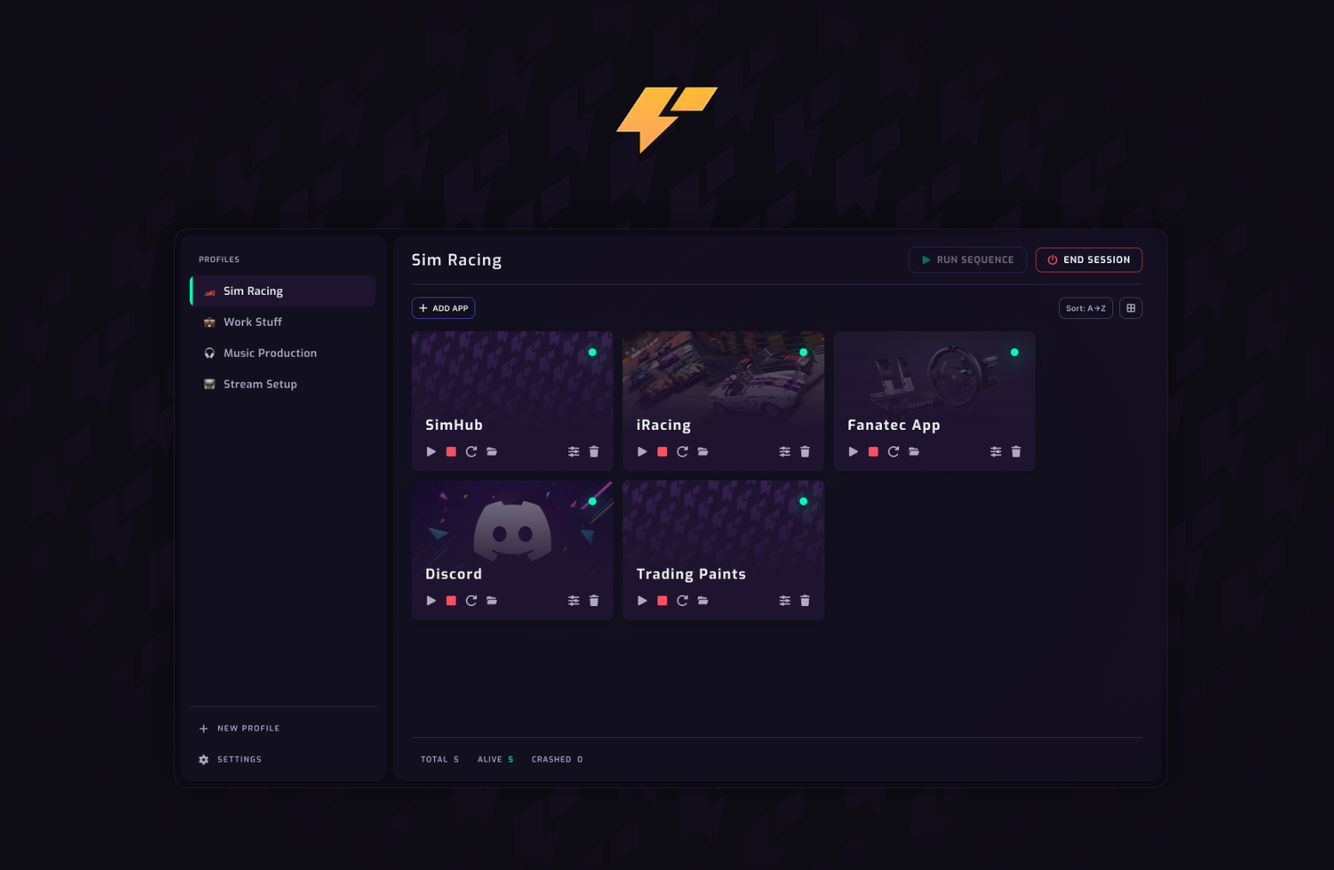
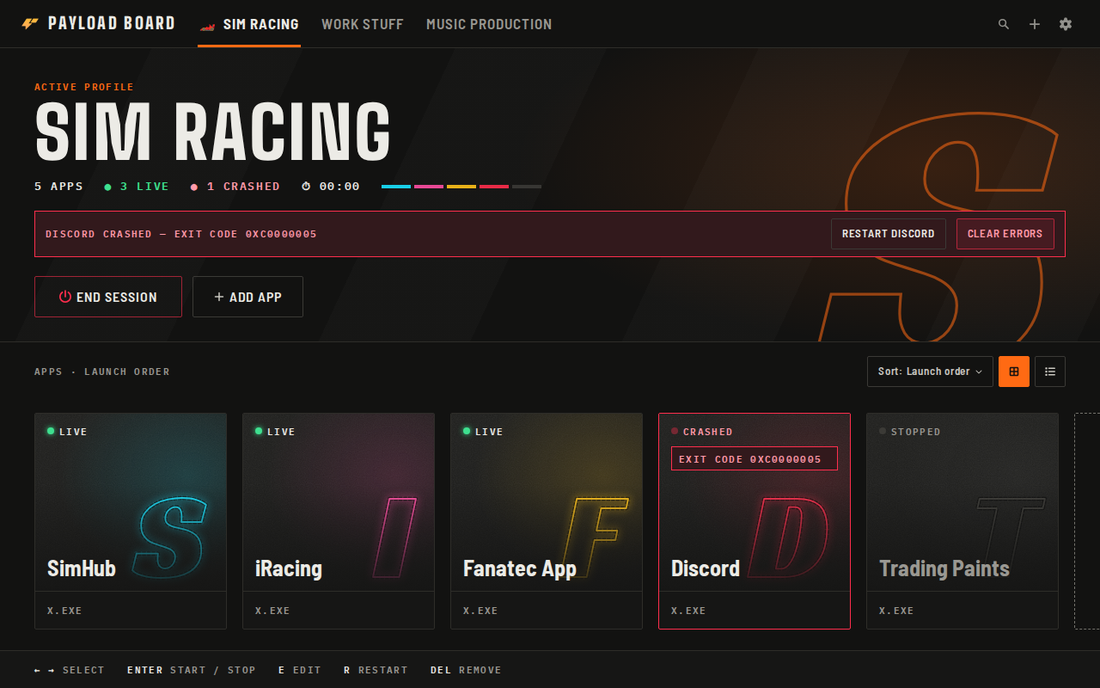
docs: README, CHANGELOG and docs for v0.6.0; move shipped plans to done/

diff --git a/README.md b/README.md
@@ -2,63 +2,56 @@
 
 ![Payload Board](docs/assets/screenshot.png)
 
+<sub>Also in [grey](docs/assets/screenshots/grey-1280x800-grid.png) and [light](docs/assets/screenshots/light-1280x800-grid.png) themes, with a [list view](docs/assets/screenshots/dark-1280x800-list.png) and [tabbed settings](docs/assets/screenshots/dark-1280x800-settings.png). Screenshots use sample data.</sub>
+
 A desktop app for managing sets of applications (profiles) — launch them in sequence, monitor their status in real time, and close everything with one click. Built for the "dark cockpit" aesthetic: functional data, no fluff.
 
 Inspired by the pain of managing a dozen simracing apps that all had to be started in the right order before a session and closed one by one afterwards. Payload Board automates that.
 
 ## What it does
 
-1. You create a named **profile** (e.g. `Racing`, `Work`, `Stream`).
-2. You add **apps** to the profile — each with a launch order and optional CLI arguments.
-3. You click **RUN SEQUENCE** → apps start one by one in your configured order.
+1. You create a named **profile** (e.g. `Racing`, `Work`, `Stream`) and pick an accent colour and optional cover image.
+2. You add **apps** to the profile — each with a launch order, delay and optional CLI arguments.
+3. You press **Run sequence** → apps start one by one in your configured order; the button shows progress and can cancel.
 4. The dashboard shows a live tile per app with its current status.
-5. You can stop / restart / force-kill individual apps from their tile.
-6. **END SESSION** gracefully closes everything in the profile (→ force-kill after 5 s timeout).
-7. Profiles persist across restarts. Multiple profiles, switch from the left sidebar.
+5. You can stop / restart / open the folder of individual apps from their tile.
+6. **End session** gracefully closes everything in the profile (→ force-kill after 5 s timeout).
+7. Profiles persist across restarts; switch between them in the tabs at the top.
+
+Everything is reachable from the keyboard: `Ctrl+K` opens a command palette, and global shortcuts work even while a game has focus.
 
 ## Features
 
 **Profiles & apps**
-- Named profiles with emoji icon and description
-- Multiple app entries per profile with launch order and CLI arguments
+- Named profiles with emoji, accent colour and cover image
+- Multiple app entries per profile with launch order, delay and CLI arguments
 - Per-app process priority: Low / Normal / High
 - Per-app "Launch minimised" toggle (Windows only)
-- Tile and list view — switch between grid of cards or compact rows
-- A→Z / Z→A sort
+- Poster view (carousel) and compact list view; A→Z / Z→A display sort
 - Confirm dialogs before removing apps or deleting profiles
 
 **Session management**
-- **RUN SEQUENCE** disabled while a session is active
-- Detect already-running processes — adopts existing process instead of double-launching
-- Clear all errors at once — button appears when any app has crashed
-- Per-process controls: start, stop, restart, open folder
+- Sequencer runs in the backend — keeps going with the window hidden; progress and cancel in the hero button
+- Detect already-running processes — adopts the existing process instead of double-launching
+- Crash notifications (when the window is not in front) and optional auto-restart per app with a retry limit
+- Hero shows live / crashed counts, launch-order strip and session timer
 
-**Status & monitoring**
-- Status LED per tile: live (cyan glow) / stopped / crashed (red pulse + error message)
-- Status bar: total / alive / crashed counts
+**Keyboard**
+- **Command palette** (`Ctrl+K`) — actions, apps and profiles in one searchable list
+- **Configurable shortcuts** in Settings → Shortcuts — in-window and global (OS-level); conflicts and refused keys are reported
+- Roving focus on tiles: arrows, `Enter` start/stop, `R` restart, `E` edit, `Del` remove; tooltips show the key
 
-**System tray**
-- Tray icon always present with Show / Quit menu; left-click to restore
-- **Start minimised to tray** — hide main window on launch (toggle in Settings)
-- **Minimise on close** — close button hides to tray instead of quitting (toggle in Settings)
-- **Launch on startup** — register as a Windows / Linux autostart entry (toggle in Settings)
+**Appearance**
+- Graphite + orange accent, per-app colour glow and first-letter backdrop; Dark / Grey / Light themes
+- SteamGridDB artwork for tiles (API key in Settings, with a link to where to get one) or any local image
+- Mini mode below 560 px width; WCAG 2.2 AA contrast, focus and target sizes
+- Languages: English, Polski, Deutsch, Español, Français
 
-**Artwork & appearance**
-- SteamGridDB integration — search and assign game artwork as tile backgrounds; API key in Settings
-- Local background image per app — pick any image file as a tile background
-- Auto-fetch tile art when adding an app by name (if SteamGridDB API key is set)
-- Theme selector: Purple / Grey (Settings → Appearance)
-
-**Sidebar**
-- Collapsible sidebar — chevron toggle in the Profiles header
-
-**App discovery**
-- Browse installed apps: Windows (registry), Linux (`.desktop` files)
-
-**Storage**
-- Persistent profiles (JSON, stored in platform app data dir)
-- Custom config directory — change or reset in Settings
-- Reset all data option in Settings
+**System**
+- Tray icon with Show / Quit; **Start minimised to tray**, **Minimise on close**, **Launch on startup** (Settings)
+- **Update check** — asks GitHub for a newer release at startup (can be turned off) and links to the download page
+- Browse installed apps: Windows (registry; Steam games resolved through Steam's app manifests), Linux (`.desktop` files)
+- Custom config directory and reset-all-data option in Settings → Data
 
 ## Installation
 
@@ -102,11 +95,11 @@ First Rust compile takes 5–10 minutes. Subsequent builds are fast.
 
 ## Usage
 
-1. **Create a profile** — click `+ NEW PROFILE` in the sidebar, enter a name and optionally an emoji and description.
-2. **Add apps** — select the profile, click `Add App`, browse to the executable or pick from the installed apps list. Set any CLI arguments and process priority if needed.
-3. **Configure order** — apps launch in the order they appear; sort A→Z or rearrange manually.
-4. **Run** — click `RUN SEQUENCE`. Watch the tiles turn live. The button is disabled while a session is active.
-5. **End session** — click `END SESSION`. All profile apps receive a graceful close signal; any that don't exit within 5 s are force-killed.
+1. **Create a profile** — click `+` in the top bar (or `Ctrl+N`), enter a name; optionally an emoji, accent colour and cover image.
+2. **Add apps** — select the profile, click `Add app`, browse to the executable or pick from the installed apps list. Set any CLI arguments and process priority if needed.
+3. **Configure order** — apps launch in the order they were added (the A→Z sort only changes how they are displayed).
+4. **Run** — click `Run sequence`. Watch the tiles turn live; click the button again (it shows the step) to cancel.
+5. **End session** — click `End session`. All profile apps receive a graceful close signal; any that don't exit within 5 s are force-killed.
 6. **Tray** — the app lives in the system tray. Close the window to minimise it (if "Minimise on close" is enabled), or use Quit from the tray menu to exit fully.
 
 ## FAQ
@@ -133,11 +126,12 @@ After launch, Payload Board scans the process list for 10 seconds looking for a 
 |-------|-----------|
 | Desktop shell | [Tauri 2](https://tauri.app) |
 | Backend | Rust stable |
-| Frontend | React 18 + TypeScript |
+| Frontend | React 19 + TypeScript |
 | Build | Vite |
 | Styling | Tailwind CSS v4 |
-| Styling tokens | CSS custom properties (`--color-*`); Purple / Grey themes via `[data-theme]` |
+| Styling tokens | CSS custom properties (`--color-*`) in `src/globals.css`; Dark / Grey / Light themes via `[data-theme]` |
 | Components | shadcn/ui (heavily customised) |
-| Fonts | Exo (headers/labels) + Inter (body/buttons) |
+| Fonts | Big Shoulders (headings), Barlow Semi Condensed (UI), IBM Plex Mono (labels), Racing Sans One (tile letter) |
 | Icons | FontAwesome 6 Free |
 | Persistence | `tauri-plugin-store` (JSON) |
+| Shortcuts / notifications | `tauri-plugin-global-shortcut`, `tauri-plugin-notification` |

diff --git a/docs/done/ui-big-picture-palette.md b/docs/done/ui-big-picture-palette.md
@@ -1,6 +1,6 @@
 # Big Picture layout + Command Palette (v6)
 
-**Status:** planned (decisions D1–D6 confirmed 2026-11-14; 4b overlay deferred), starts after v5 is QA'd in the real Tauri window. Execution plan for agents: [agent-workflow.md](agent-workflow.md). Stack on `feat/ui-restyle-v5` (or on `main` once v5 is merged).
+**Status:** shipped in v0.6.0 (decisions D1–D6 confirmed 2026-11-14; tested on Windows 2026-11-16). Deferred: 4b palette overlay over fullscreen games. Execution plan for agents: [agent-workflow.md](agent-workflow.md).
 **Builds on:** [ui-restyle-v5.md](ui-restyle-v5.md) (tokens, themes, tiles, controls).
 
 ## Goal
@@ -88,7 +88,7 @@ Concepts (static mockups, dark theme): ![all concepts](../assets/concepts/sheet.
 
 ### Phase 2 — Profile accent and cover
 - [x] 2a: use `color_accent` (already in type) as hero tint; picker in `ProfileEditor` (5 presets + default accent)
-- [ ] 2b: optional profile cover image (reuse SteamGridDB / local picker). **New optional field → Rust migration, ask first.** Fallback: big first letter
+- [x] 2b: optional profile cover image (reuse SteamGridDB / local picker). **New optional field → Rust migration, ask first.** Fallback: big first letter
 - Done: `lib/accent.ts` (presets, readable text colour, darkening in the light theme), colour picker in `ProfileEditor`, accent applied on `<html>` so tabs, hero, focus ring and buttons follow the active profile. **2b (cover image) is NOT done** — it adds a new optional profile field, so it waits for your OK.
 
 ### Phase 3 — Command Palette (in-window)
@@ -108,7 +108,7 @@ Concepts (static mockups, dark theme): ![all concepts](../assets/concepts/sheet.
 - [x] **Settings → Shortcuts** section: one row per action (label, current keys, scope badge, Change = press-to-record, Reset, Clear), master switch "Enable global shortcuts", inline error for conflicts/invalid, shows which are global vs window-only
 - [x] Global End session needs a second press within 2 s (D4); toast confirms every global action
 - [x] In-window shortcuts (`Ctrl+K`, `Ctrl+R`, `Ctrl+.`, `Ctrl+N`, …) read the same registry, so changing them in Settings takes effect immediately; guard against firing while a dialog is open
-- [ ] Risk to verify early (Windows): re-registering after a failed attempt; shortcut still firing after the window is minimised to tray
+- [x] Risk to verify early (Windows): re-registering after a failed attempt; shortcut still firing after the window is minimised to tray
 - Done on `feat/big-picture`:
   - Rust `shortcuts.rs` (`tauri-plugin-global-shortcut` 2.x): `get_shortcuts`, `set_shortcut` (typed errors `invalid | conflict | taken`, rolls back when the OS refuses), `reset_shortcut`, `set_global_shortcuts_enabled`, `suspend_global_shortcuts` (paused while recording a key), `set_active_profile` (so global run/end know the profile with the window hidden). Persisted in the settings store. Events: `shortcut_triggered`, `shortcut_feedback`. `start_sequence` and `stop_all_inner` extracted so the shortcut handler calls them directly.
   - Accelerators are `CommandOrControl+Alt+KeyR`-style (`KeyboardEvent.code` names). Defaults: palette anywhere `Ctrl+Shift+Space`, run `Ctrl+Alt+R`, end session `Ctrl+Alt+E` (second press within 2 s), window: palette `Ctrl+K`, add app `Ctrl+N`, new profile `Ctrl+Shift+N`, settings `Ctrl+,`. (`Ctrl+P` alias from D6 dropped: every shortcut is now a single configurable binding.)
@@ -144,13 +144,13 @@ Concepts (static mockups, dark theme): ![all concepts](../assets/concepts/sheet.
 
 ## Acceptance criteria
 
-- [ ] Full flow without a mouse: open palette → start an app → close → run/stop sequence
-- [ ] Works at 900×600 and 1200×800, three themes
-- [ ] Every shortcut can be changed, reset and disabled in Settings; invalid/conflicting keys show a clear message and never leave the app without a working palette shortcut
-- [ ] Global run/end work with the window hidden (tray) and while another app has focus
-- [ ] WCAG 2.2 AA as in v5 (contrast, 24 px targets, visible focus, status not by colour alone, reduced motion) + palette ARIA pattern
-- [ ] No regression in existing process control and sequence behaviour (manual test list below)
-- [ ] `npm run build` clean; verified in the real Tauri window, not only in the browser mock
+- [x] Full flow without a mouse: open palette → start an app → close → run/stop sequence
+- [x] Works at 900×600 and 1200×800, three themes
+- [x] Every shortcut can be changed, reset and disabled in Settings; invalid/conflicting keys show a clear message and never leave the app without a working palette shortcut
+- [x] Global run/end work with the window hidden (tray) and while another app has focus
+- [x] WCAG 2.2 AA as in v5 (contrast, 24 px targets, visible focus, status not by colour alone, reduced motion) + palette ARIA pattern
+- [x] No regression in existing process control and sequence behaviour (manual test list below)
+- [x] `npm run build` clean; verified in the real Tauri window, not only in the browser mock
 
 **Manual test list:** global run / end with window hidden · change a shortcut and use it · conflict with an existing shortcut · run sequence with delays · cancel mid-sequence · stop one app · crash an app (kill process) · END SESSION with confirm · add/edit/remove app · profile switch · settings dialogs · tray minimise/restore.
 

diff --git a/docs/index.md b/docs/index.md
@@ -12,25 +12,25 @@ docs/
 ├── planned/                    ← ready to build, not yet started
 │   ├── app-launch-config.md    ← CLI args field + app-specific presets
 │   ├── monitoring.md           ← CPU/RAM metrics, sparklines, footer totals
-│   ├── sequencer.md            (remaining: wait strategies, progress bar, cancel)
-│   ├── platform-adapters.md    (remaining: graceful shutdown, macOS/Linux installed apps)
-│   ├── hotkeys.md              ← in-app + system-wide keyboard shortcuts
+│   ├── sequencer.md            (remaining: wait strategies)
+│   ├── platform-adapters.md    (remaining: graceful shutdown; macOS dropped)
 │   ├── tray-autostart.md       ← system tray icon + launch at startup
 │   ├── export-import.md        ← export/import profiles as JSON
 │   ├── session-logs.md         ← per-session launch/crash log
 │   ├── model-routing.md        ← which model does what, token rules, security finding
 │   └── ui-redesign.md          ← Figma-driven redesign (onboarding + logo remain)
-├── in-progress/                ← currently being worked on
-│   ├── ui-restyle-v5.md        ← ★ new look on the current layout (branch feat/ui-restyle-v5)
-│   ├── ui-big-picture-palette.md ← next: Big Picture + Command Palette + configurable global shortcuts (after v5 QA)
-│   └── agent-workflow.md       ← agents/sub-agents, model split, contracts, gates for that work
+├── in-progress/                ← currently being worked on (empty)
 └── done/                       ← shipped
     ├── profiles.md             ← profile CRUD, emoji, edit (v0.4.0)
     ├── process-control.md      ← start/stop/restart/kill, status LED (v0.3.1–v0.4.0)
     ├── sequencer.md            ← basic run sequence, delays (v0.3.1)
     ├── platform-adapters.md    ← PlatformAdapter trait, Windows installed apps (v0.4.0)
     ├── settings.md             ← Settings panel, storage, SteamGridDB key (v0.3.0–v0.4.0)
-    └── background-art.md       ← SteamGridDB + local image backgrounds (v0.4.0)
+    ├── background-art.md       ← SteamGridDB + local image backgrounds (v0.4.0)
+    ├── ui-restyle-v5.md        ← graphite + orange restyle, tokens, themes (v0.6.0)
+    ├── ui-big-picture-palette.md ← Big Picture hero, command palette, shortcuts, crash notifications, mini mode, languages (v0.6.0)
+    ├── agent-workflow.md       ← agents, model split, contracts, gates used for v0.6.0
+    └── hotkeys.md              ← configurable window + global shortcuts (v0.6.0)
 ```
 
 Move a file from `planned/` → `in-progress/` when you start it, and to `done/` when it's shipped. Done files stay as a record of what was built and what remains.
@@ -42,13 +42,13 @@ Move a file from `planned/` → `in-progress/` when you start it, and to `done/`
 | 0 | Setup (Tauri, Tailwind, shadcn, FA, Cargo) | done |
 | 1 | MVP scaffold (sidebar, dashboard, profile CRUD, IPC) | done |
 | 2 | Process control (start/stop/restart/kill, status LED) | done |
-| 3 | Sequencer (ordered launch, delays, fire-and-forget) | done (partial — wait strategies, progress bar remain) |
+| 3 | Sequencer (ordered launch, delays, progress, cancel — runs in Rust) | done (wait strategies remain) |
 | 4 | Monitoring (sysinfo loop, sparklines, footer totals) | not started |
-| 5 | UX polish (full redesign via Figma, hotkeys, animations, onboarding) | not started |
-| 6 | Nice-to-have (tray, autostart, export/import, logs) | not started |
+| 5 | UX polish (restyle, Big Picture, palette, hotkeys, languages) | done in v0.6.0 (onboarding remains) |
+| 6 | Nice-to-have (tray, autostart, export/import, logs) | tray, autostart, update check done; export/import, logs not started |
 
 ## Current version
 
-**v0.4.0** — released 2026-05-09. See `CHANGELOG.md` for full notes.
+**v0.6.0** — released 2026-11-16 (new look, Big Picture layout, command palette, global shortcuts, Rust sequencer, crash notifications and auto-restart, five languages, update check; Windows + Linux). See `CHANGELOG.md` for full notes.
 
 Next up: see `backlog.md` for near-term items and `planned/` for feature specs.

diff --git a/docs/backlog.md b/docs/backlog.md
@@ -19,22 +19,24 @@ Lower-priority ideas and Phase 6 nice-to-haves. Promote to a feature file when r
 - [x] **Start minimised to tray** — tray icon always present; "Start minimised to tray" toggle in Settings hides the window on launch
 - [x] **Start apps minimised** — "Launch minimised" toggle per app in editor; Windows only (SW_SHOWMINIMIZED via CreateProcessW); hidden on Linux/macOS
 - [x] **Minimise on close** — "Minimise on close" toggle in Settings; closing the window hides it to the tray; quit via tray menu
-- [ ] **Settings tabs** — split the Settings modal into tabs (e.g. Appearance / Integrations / Storage / Advanced) as the panel grows
+- [x] **Settings tabs** — split the Settings modal into tabs (e.g. Appearance / Integrations / Storage / Advanced) as the panel grows
 - [x] **Autostart** — `tauri-plugin-autostart` (cross-platform); option per profile or global
 - [x] **Detect already running** — on sequence start, check if process is already up; skip it rather than double-launching
 - [x] **Browse installed apps list** — Windows (registry), macOS (`/Applications`), Linux (`.desktop` files); currently Windows-only in v0.4.0
 - [ ] **MS Store apps in installed apps picker** — `Get-StartApps` scan alongside registry; reverted due to latency and missing exe paths for Store apps
-- [x] **macOS & Linux installers** — add macOS (.dmg / .app bundle) and Linux (.deb / .AppImage) build targets to CI; currently Windows-only (NSIS + MSI)
+- [x] **macOS & Linux installers** (macOS dropped 2026-11-16; Windows + Linux only) — add macOS (.dmg / .app bundle) and Linux (.deb / .AppImage) build targets to CI; currently Windows-only (NSIS + MSI)
 - [x] **Clear errors button** — resets all crashed app states at once; appears in actions bar when any app has crashed (v0.5.2)
 - [x] **Collapsible sidebar** — chevron toggle in Profiles header; equal margins when collapsed (v0.5.2)
-- [ ] **Auto-restart on crash** — automatically relaunch an app if it exits unexpectedly; configurable retry limit before giving up
+- [x] **Auto-restart on crash** — automatically relaunch an app if it exits unexpectedly; configurable retry limit before giving up
 - [ ] **Conditional launch** — only start an app if a condition is met: USB device connected, network available, or another process already running
 - [ ] **Environment variables per app** — inject custom env vars at launch without touching the system environment
 - [ ] **Duplicate profile** — clone an existing profile as a starting point instead of building from scratch
 - [ ] **Working directory override** — some apps behave differently depending on where they're launched from; allow overriding per app entry
 - [ ] **App notes field** — small text note per app entry for quirks or reminders (e.g. "must launch before SimHub or it crashes")
 - [ ] **Run multiple instances** — same executable, different args, treated as separate independent entries
-- [ ] **System-wide hotkeys** — trigger RUN SEQUENCE or END SESSION from anywhere, even when the Payload Board window is in the background
+- [x] **System-wide hotkeys** — trigger RUN SEQUENCE or END SESSION from anywhere, even when the Payload Board window is in the background
+
+- [x] **Update check** — startup check against GitHub releases, banner + link to the download page, toggle and manual check in Settings (v0.6.0)
 
 ## Future ideas
 

diff --git a/CHANGELOG.md b/CHANGELOG.md
@@ -5,6 +5,29 @@ Format: [Keep a Changelog](https://keepachangelog.com/en/1.1.0/).
 
 ## [Unreleased]
 
+## [0.6.0] — 2026-11-16
+
+### Added
+- **New look** — graphite + orange accent, per-app neon colours, first-letter tile backdrop; dark, grey and redesigned light themes
+- **Big Picture layout** — profile tabs on top, big profile hero with one contextual action (Run / Cancel / End session), tile carousel with keyboard navigation, redesigned list view; mini mode below 560 px width
+- **Command palette** (`Ctrl+K`) — actions, apps and profiles in one list
+- **Configurable shortcuts** — window and global (OS-level) shortcuts, edited in Settings → Shortcuts; shortcut shown in button tooltips
+- **Rust sequencer** — launch order, delays, progress and cancel keep running with the window hidden
+- **Crash notifications and auto-restart** — system notification on crash; per-app "Restart if it crashes" with max attempts (new optional fields `restart_on_crash`, `max_retries`)
+- **Profile accent colour and cover image** (new optional field `cover_url`)
+- **Languages** — English, Polski, Deutsch, Español, Français (Settings → Appearance); translations are machine-written and need a native read-through
+- **Update check** — asks GitHub for the latest release at startup (can be turned off) and offers a link to the download page; "Check for updates" in Settings → About
+- **Settings in tabs**; link to the SteamGridDB API-key page; "Open Settings" button when the key is missing
+- Visual QA tooling: `npm run qa:shots`, `qa:contrast`, `qa:flows`, `qa:i18n`
+
+### Changed
+- Launch order now follows the app order; the A→Z / Z→A sort only affects the display
+- Windows and Linux only — the macOS build and adapter were removed
+
+### Fixed
+- Installed Steam games now resolve to the game's executable (via Steam's app manifests)
+- "Open folder" works for paths with spaces (Explorer was falling back to Documents)
+
 ## [0.5.4] — 2026-05-27
 
 ### Changed

diff --git a/.claude/agents/reviewer.md b/.claude/agents/reviewer.md
@@ -7,6 +7,6 @@ tools: Read, Grep, Glob, Bash
 You review a diff you did not write. **Read-only** — report findings, never edit.
 
 - Get the diff with `git diff <base>...HEAD` (and `git status` for uncommitted work). Read changed files by line range.
-- Check in this order: (1) correctness and races (event ordering, cancel, retries, hidden-window behaviour), (2) data safety (profile JSON still loads, `#[serde(default)]`), (3) accessibility (WCAG 2.2 AA, keyboard path, focus return, ARIA pattern for the palette), (4) contract match with `docs/in-progress/agent-workflow.md` §4, (5) over-engineering (ponytail: what can be deleted or replaced by something existing).
+- Check in this order: (1) correctness and races (event ordering, cancel, retries, hidden-window behaviour), (2) data safety (profile JSON still loads, `#[serde(default)]`), (3) accessibility (WCAG 2.2 AA, keyboard path, focus return, ARIA pattern for the palette), (4) contract match with `docs/done/agent-workflow.md` §4, (5) over-engineering (ponytail: what can be deleted or replaced by something existing).
 - One finding per line: `file:line — problem — suggested fix`. Rank by severity; skip style nits and anything linters already catch.
 - If nothing is wrong, say so in one line. Do not pad.

diff --git a/CLAUDE.md b/CLAUDE.md
@@ -13,13 +13,13 @@ Tauri 2 (Rust) + React 19 + Tailwind 4 + shadcn/base-ui. Windows-first desktop a
 - Follow ponytail (already enabled): smallest change that works, reuse existing components/tokens.
 - Colours, fonts, radii live in `src/globals.css` tokens only — no hardcoded values in components.
 - Changing the profile JSON shape needs a migration in Rust (`src-tauri`) — ask first.
-- Docs: plans in `docs/planned/`, move to `docs/in-progress/` then `docs/done/`. Current top priority: `docs/in-progress/ui-restyle-v5.md`.
+- Docs: plans in `docs/planned/`, move to `docs/in-progress/` then `docs/done/`. Last shipped: v0.6.0 (`docs/done/ui-big-picture-palette.md`). Next: `docs/backlog.md`.
 
 ## Models (see `docs/planned/model-routing.md`)
 
 - Search / exploration: Haiku (`Explore` agent). Implementation: Sonnet. Opus only for architecture or data-format decisions.
 - Don't spawn agents for work 1–3 tool calls can do. Read line ranges, not whole files.
-- Agent roles, file ownership and phase gates for the v6 work: `docs/in-progress/agent-workflow.md`.
+- Agent roles, file ownership and phase gates for the v6 work: `docs/done/agent-workflow.md`.
 
 ## Translations
 

diff --git a/.claude/agents/rust-dev.md b/.claude/agents/rust-dev.md
@@ -7,7 +7,7 @@ tools: Read, Grep, Glob, Edit, Write, Bash
 You are the Rust/Tauri implementer for Payload Board.
 
 - Own only `src-tauri/**` (incl. `Cargo.toml`, `Cargo.lock`, `capabilities/`). Never edit `src/**` or `docs/**`.
-- Follow `CLAUDE.md` and the contract you are given in `docs/in-progress/agent-workflow.md` §4. Keep event and command names exactly as in the contract.
+- Follow `CLAUDE.md` and the contract you are given in `docs/done/agent-workflow.md` §4. Keep event and command names exactly as in the contract.
 - New persisted fields: `Option<T>` + `#[serde(default)]`, so existing profile JSON keeps loading. Anything that changes the data format beyond that: stop and report.
 - Reuse what exists (`store.rs`, `process_manager.rs`, the `process_status_changed` event) before adding modules. Smallest change that works (ponytail).
 - Before reporting run `cargo check` and `cargo clippy -- -D warnings` in `src-tauri`. Fix what you introduced; do not touch unrelated warnings.

diff --git a/docs/planned/sequencer.md b/docs/planned/sequencer.md
@@ -12,10 +12,10 @@ Launch all apps in a profile one by one, in configured order, with optional dela
   - `fire_and_forget` — launch and immediately move to next
   - `wait_for_window` — poll for a window belonging to the process before continuing
   - `wait_seconds` — fixed delay
-- [ ] Progress bar / indicator at top of dashboard during sequence
-- [ ] Cancel in-progress sequence
+- [x] Progress indicator during sequence (hero button shows step/total) — v0.6.0
+- [x] Cancel in-progress sequence — v0.6.0 (sequencer runs in Rust)
 - [ ] Toast on sequence complete / error (shadcn Sonner)
-- [ ] Hotkey: `Ctrl/Cmd+R` to trigger RUN SEQUENCE
+- [x] Hotkey to trigger RUN SEQUENCE (configurable, global) — v0.6.0
 
 ## Notes
 

diff --git a/docs/done/hotkeys.md b/docs/done/hotkeys.md
@@ -1,5 +1,7 @@
 # Hotkeys
 
+**Status: shipped in v0.6.0** as a configurable action registry (palette, run, end session, add app, new profile, settings): window shortcuts plus global OS-level ones via `tauri-plugin-global-shortcut`, editable in Settings → Shortcuts. See [ui-big-picture-palette.md](ui-big-picture-palette.md) phases 3–4. The original plan below is kept as a record; its fixed shortcut table was replaced by the configurable one.
+
 ## Goal
 
 Keyboard shortcuts for common actions, both in-app and system-wide (available even when the window is not focused).

diff --git a/docs/done/ui-restyle-v5.md b/docs/done/ui-restyle-v5.md
@@ -1,6 +1,6 @@
 # UI Restyle v5 — "Rig" look on the current layout
 
-**Status: in progress on branch `feat/ui-restyle-v5` (phases 1–4 implemented, phase 5 = manual QA in the real Tauri app).** Priority: highest. Supersedes the Figma-driven approach in `ui-redesign.md` for visuals; keep that file for onboarding and logo work.
+**Status: shipped in v0.6.0 (merged with the v6 work; QA done on Windows).** Supersedes the Figma-driven approach in `ui-redesign.md` for visuals; keep that file for onboarding and logo work.
 
 ## Goal
 

diff --git a/docs/planned/model-routing.md b/docs/planned/model-routing.md
@@ -12,7 +12,7 @@ Goal: least tokens for the same result. Ponytail (`ponytail@ponytail`, already i
 | Project `CLAUDE.md` | missing | added (short, loaded every session) |
 | Default model | `sonnet`, effort `high` | keep; lower effort for mechanical work |
 
-> Agent roster and per-phase orchestration for the v6 work: [../in-progress/agent-workflow.md](../in-progress/agent-workflow.md).
+> Agent roster and per-phase orchestration for the v6 work: [../done/agent-workflow.md](../done/agent-workflow.md).
 
 ## Routing table
 
